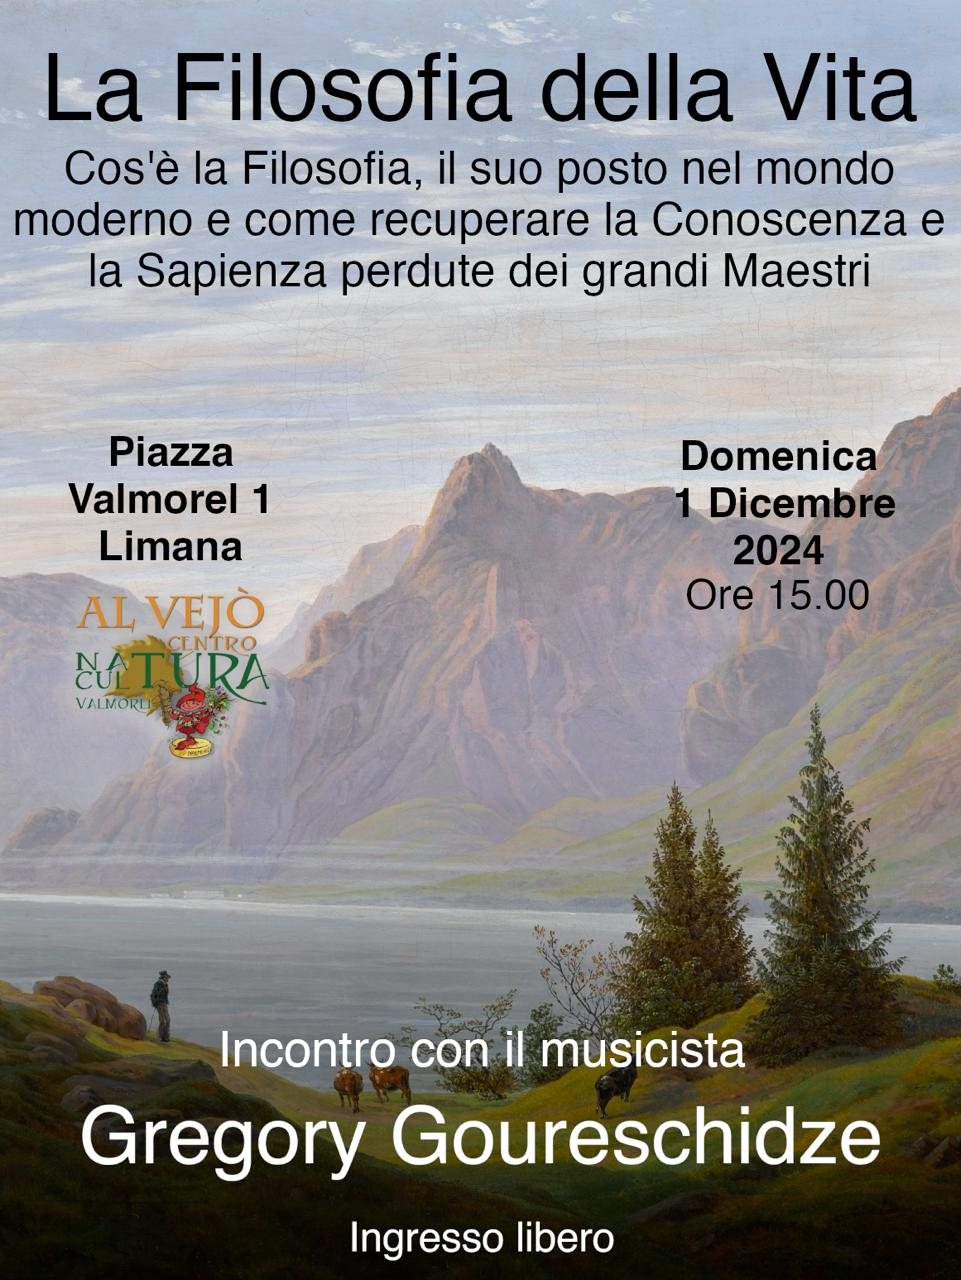
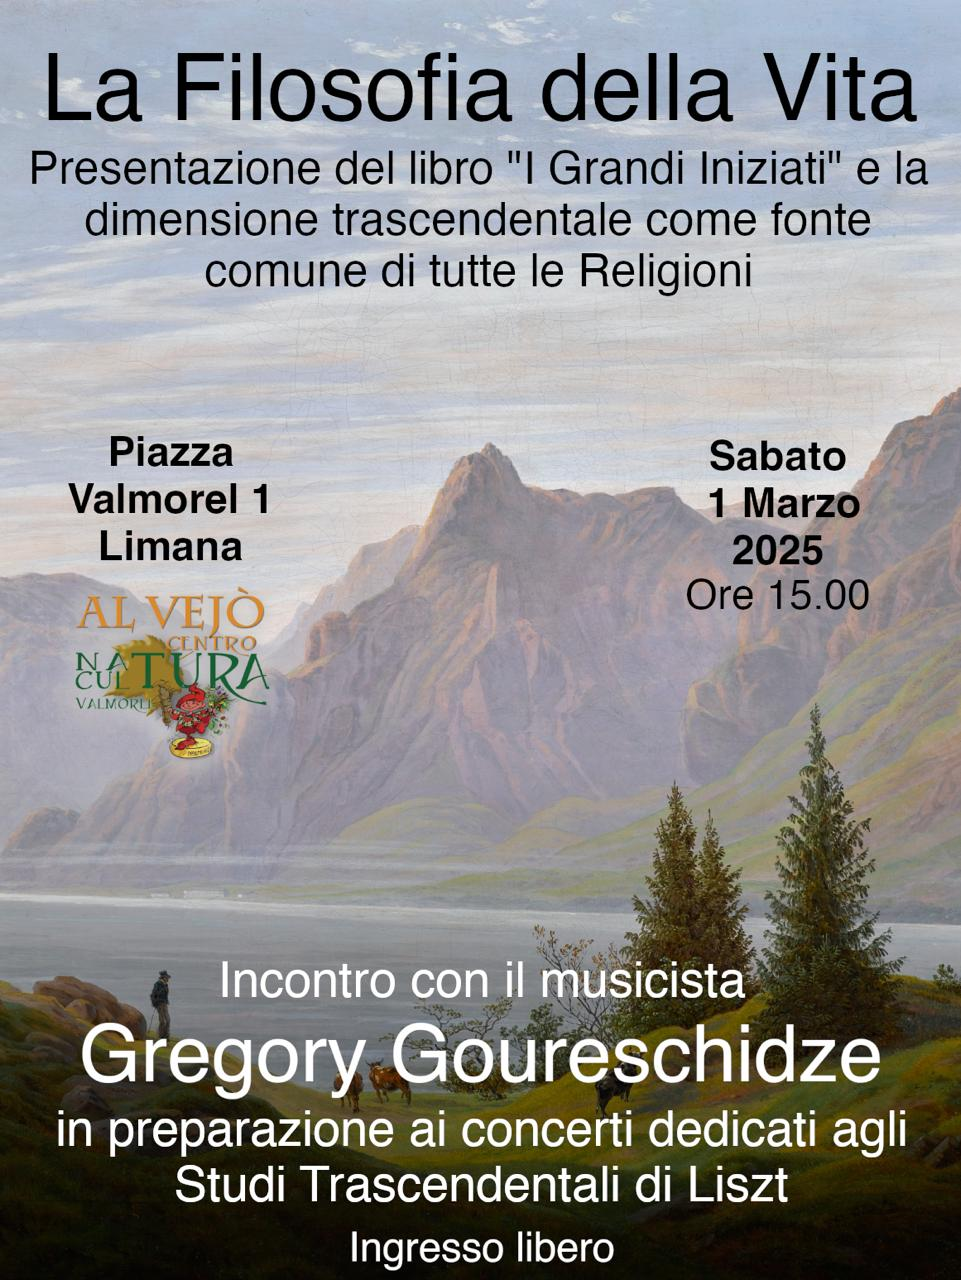
Aggiornato Index per nuova conferenza
- Aggiornato Index per converenza Valmorel 1 Marzo 2025

Changed region(s): [[0.0624, 0.75, 0.9677, 1.0], [0.0, 0.0938, 0.999, 0.25], [0.6868, 0.3438, 0.9365, 0.4375]]

diff --git a/index.html b/index.html
@@ -77,24 +77,26 @@
                 <h1 style="width: 100%;">Conferenza</h1>
                 <h1 style="width: 100%;">"La Filosofia della Vita"</h1>
                 <hr class="SmallHR">
-                <p style="text-align: center;"><b>Cos'è la Filosofia, il suo posto nel mondo moderno e come recuperare la Conoscenza e la Sapienza perdute dei grandi Maestri</b></p>
+                <p style="text-align: center;"><b>Presentazione del libro "I Grandi Iniziati" e la dimensione trascendentale come fonte comune di tutte le Religioni</b></p>
                 <hr class="MediumHR">
                 <hr class="SmallHR">
-                <p>Nella nostra società moderna, ormai sottomessa unicamente al valore del denaro, schiava del materialismo e del consumismo che alimentano il fuoco del capitalismo occidentale, sono  stati da tempo persi i veri e grandi valori che per secoli hanno guidato i più grandi Maestri di Arte, Filosofia e Scienza del mondo intero.</p>
+                <p>In preparazione dei concerti della prossima estate dedicati agli Studi Transcendentali di Franz Liszt, siamo lieti di proporre una seconda conferenza filosofico-letteraria volta ad esplorare il profondo significato di queste opere ed il loro fondamento spirituale e filosofico.</p>
                 <hr class="SmallHR">
-                <p>In questo incontro con il musicista Gregory Goureschidze, organizzato nella meravigliosa località di Valmorel Limana, viene riproposta la ricerca di questi valori perduti tramite la lettura e la spiegazione di diversi testi dei più grandi Maestri di tutti i tempi.</p>
+                <p>In questo incontro con il musicista Gregory Goureschidze, organizzato nella meravigliosa località di Valmorel Limana in data 1 Marzo 2025 alle ore 15.00, si vuole continuare sul percorso iniziato insieme lo scorso Dicembre per ricercare i valori dei grandi maestri tramite la spiegazione e la lettura di diversi testi.</p>
                 <hr class="SmallHR">
-                <p>Assieme a Gregory, esploreremo le opere e le riflessioni dei grandi pensatori che hanno segnato il cammino della nostra civiltà, fra cui Platone, Seneca, Johann Wolfgang von Goethe, Friedrich Schlegel, Arthur Schopenhauer, Radindranath Tagore, Carl Jung e tanti altri.</p>
+                <p>Il maestro Gregory propone la presentazione del libro "I Grandi Iniziati", opera del poeta e filosofo francesese Edouard Schuré (1841-1929), nel testo l'autore analizza come i grandi pensatori e filosofi della storia abbiano sempre rivelato la stessa verità eterna ed universale, verità ormai perduta e denigrata nella nostra epoca de-spiritualizzata.</p>
                 <hr class="SmallHR">
-                <p>L'incontro offrirà una importante occasione di dialogo e riflessione collettiva, fra letture, spiegazioni e musica ci immergeremo in una dimensione intima che ci invita a riconnetterci con i valori essenziali capaci di nutrire l'anima e che ci permetteranno di riscoprire il grande valore del nostra ricca cultura classica.</p>              
+                <p>Grazie alla guida dei testi di Schuré approfondiremo intimamente la differenza fra le due grandi dimensioni della realtà: il mondo sensibile, ovvero materiale ed immanente, ed il mondo trascendente, ciò che sta al di là di ogni esperienza fisica.</p>              
                 <hr class="SmallHR">
-                <p>Una guida alla conferanza, contenente i brani principali che saranno letti e presentati dal maestro, è disponibile nell'archivio.</p>
-                <hr class="MediumHR">
+                <p>L'incontro offrirà importante occasione di dialogo, riflessione e meditazione per tutti coloro che desiderano aprire la loro anima alla vera Arte ed alla vera Filosofia.</p>
+                <hr class="SmallHR">
+                <p>Una guida contenente i brani principali che saranno letti e presentati dal maestro sarà resa disponibile nell'archivio a seguito della conferenza.</p>
+                <!-- <hr class="MediumHR">
                 <div class="GuideButton">
                   <div class="LinkButton" style="width: 300px; background-color: rgb(117, 119, 80); border-color: rgb(94, 95, 66);" onclick="openPage('Archive/ConferenceArchive/Conferenza_FilosofiaDellaVita_Inverno_2024.html')">
                     <p style="text-align: center;">Apri la guida della conferenza</p>
                   </div>
-                </div>
+                </div> -->
                 <hr class="SmallHR">
               </div>
             </div>

diff --git a/Conferences.html b/Conferences.html
@@ -69,8 +69,8 @@
             <div class="MusicPieceBlock" onclick="openPage('Archive/ConferenceArchive/Conferenza_FilosofiaDellaVita_Inverno_2024.html')">
               <img class="MusicPieceIcon" src="./Images/ConferenceIcon.png" />
               <div>
-                <h3>Conferenza - La Filosofia della Vita</h3>
-                <p>Inverno 2024</p>
+                <h3>La Filosofia della Vita - 1 Dicembre 2024</h3>
+                <p>Cos'è la Filosofia ed il suo posto nel mondo moderno</p>
               </div>
             </div>
             <div class="fillSpace"><hr class="MediumHR"></div>
